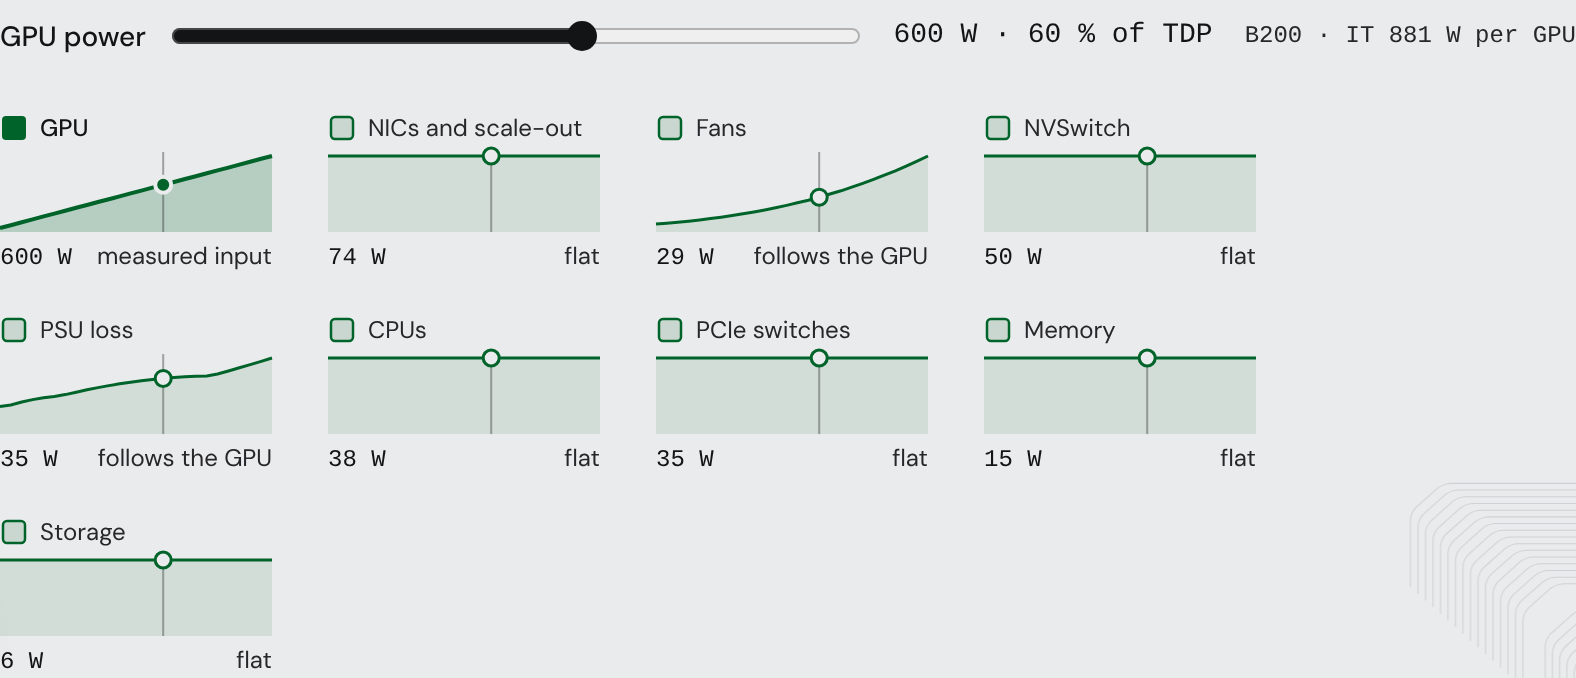
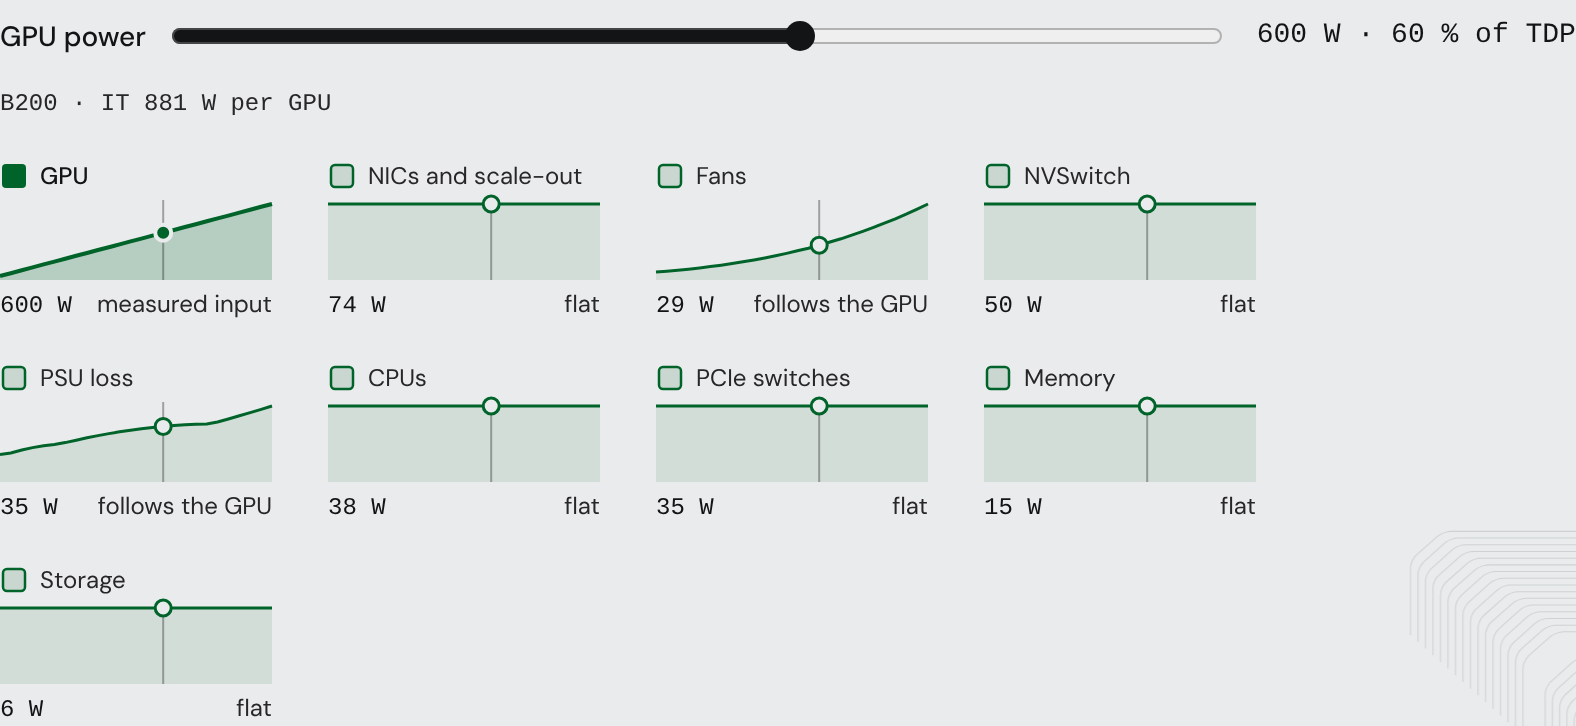
fix: correct PowerX tutorial chart rendering

diff --git a/packages/app/src/components/powerx/widgets/measured-vs-modeled-widget.tsx b/packages/app/src/components/powerx/widgets/measured-vs-modeled-widget.tsx
@@ -9,6 +9,7 @@ import { CHART_TYPE } from '@/lib/d3-chart/typography';
 import {
   decodeMmView,
   encodeMmView,
+  frontierLine,
   MM_GPUS,
   MM_VIEWS,
   mmDashboardUrl,
@@ -43,7 +44,7 @@ const STRINGS = {
       modeled:
         'The same points scaled by the power model: facility watts per GPU over measured watts',
     },
-    x: 'P90 interactivity (tok/s/user)',
+    x: 'Interactivity (tok/s/user)',
     y: 'J per output token, log',
     preset: 'DeepSeek-V4-Pro · AgentX traces · FP4',
     open: 'Open in PowerX',
@@ -71,7 +72,7 @@ const STRINGS = {
       measured: '仅由 GPU 遥测得到的每输出 token 焦耳数',
       modeled: '同一批数据点按功耗模型换算：乘以每 GPU 数据中心瓦特数 ÷ 实测瓦特数',
     },
-    x: 'P90 交互性（tok/s/user）',
+    x: '交互性（tok/s/user）',
     y: '每输出 token 焦耳数，对数坐标',
     preset: 'DeepSeek-V4-Pro · AgentX traces · FP4',
     open: '在 PowerX 中打开',
@@ -195,8 +196,7 @@ export function MeasuredVsModeledWidget({ locale, alt }: WidgetProps) {
   }
 
   const linePath = (series: PairedSeries, key: 'measured' | 'modeled') =>
-    series.points
-      .filter((point) => point[key] !== null)
+    frontierLine(series, key)
       .map(
         (point, index) =>
           `${index === 0 ? 'M' : 'L'}${plot!.xOf(point.x).toFixed(1)},${plot!.yOf(point[key]!).toFixed(1)}`,
@@ -219,7 +219,7 @@ export function MeasuredVsModeledWidget({ locale, alt }: WidgetProps) {
             title: t.viewTitles[key],
           }))}
         />
-        <div className="flex flex-wrap items-center gap-x-4 gap-y-1 text-xs text-muted-foreground">
+        <div className="flex min-w-0 flex-wrap items-center gap-x-4 gap-y-1 pr-1 text-xs text-muted-foreground">
           {paired?.map((series) => (
             <span key={series.hwKey} className="flex items-center gap-1.5">
               <GrammarSwatch kind="measured" color={resolveColor(series.gpu)} />

diff --git a/packages/app/src/components/powerx/widgets/worked-example-widget.tsx b/packages/app/src/components/powerx/widgets/worked-example-widget.tsx
@@ -19,6 +19,7 @@ import {
   formatWatts,
   GrammarSwatch,
   type Provenance,
+  useHydrated,
   useView,
   WidgetFrame,
   type WidgetProps,
@@ -82,17 +83,21 @@ export function WorkedExampleWidget({ locale, alt }: WidgetProps) {
       : null;
   const gpuWatts = point?.y ?? exampleGpuWatts(hardware);
   const ladder = useMemo(() => buildLadder(hardware, gpuWatts), [hardware, gpuWatts]);
-  const color = resolveColor(hardware);
+  const hydrated = useHydrated();
+  const color = hydrated ? resolveColor(hardware) : 'var(--foreground)';
   const label = ladderLabel(hardware);
 
-  const values: Record<RowKey, string> | null = ladder && {
-    gpu: `${formatWatts(ladder.gpuWatts)} W`,
-    it: `${formatWatts(ladder.itWatts)} W`,
-    gpusPerMw: Math.round(ladder.gpusPerMw).toLocaleString('en-US'),
-    tdp: `${ladder.percentOfTdp.toFixed(0)} %`,
-    facility: `${formatWatts(ladder.facilityWatts)} W`,
-    allIn: `${formatWatts(ladder.allInWatts)} W`,
-  };
+  const values: Record<RowKey, string> | null =
+    view.status === 'loading' || !ladder
+      ? null
+      : {
+          gpu: `${formatWatts(ladder.gpuWatts)} W`,
+          it: `${formatWatts(ladder.itWatts)} W`,
+          gpusPerMw: Math.round(ladder.gpusPerMw).toLocaleString('en-US'),
+          tdp: `${ladder.percentOfTdp.toFixed(0)} %`,
+          facility: `${formatWatts(ladder.facilityWatts)} W`,
+          allIn: `${formatWatts(ladder.allInWatts)} W`,
+        };
 
   return (
     <WidgetFrame name="worked-example" alt={alt}>

diff --git a/packages/app/src/components/powerx/widgets/load-widget.tsx b/packages/app/src/components/powerx/widgets/load-widget.tsx
@@ -19,6 +19,7 @@ import { GROUP_LABELS, GROUP_TITLES } from './strings';
 import {
   formatWatts,
   GrammarSwatch,
+  useHydrated,
   useWidgetHash,
   WidgetFrame,
   type WidgetProps,
@@ -68,7 +69,8 @@ export function LoadWidget({ locale, alt }: WidgetProps) {
     highContrast: false,
     activeKeys: [...LADDER_HARDWARE],
   });
-  const color = resolveColor(hardware);
+  const hydrated = useHydrated();
+  const color = hydrated ? resolveColor(hardware) : 'var(--foreground)';
   const groups = GROUP_LABELS[locale];
   const titles = GROUP_TITLES[locale];
   const fraction = gpuWatts / sweep.tdpWatts;
@@ -95,13 +97,14 @@ export function LoadWidget({ locale, alt }: WidgetProps) {
         <span className="font-mono text-sm tabular-nums text-foreground">
           {t.readout(formatWatts(gpuWatts), fraction * 100)}
         </span>
-        <span
-          className="font-mono text-xs text-muted-foreground"
-          title={t.chip(ladderLabel(hardware))}
-        >
-          {ladderLabel(hardware)} · {ladder ? t.it(formatWatts(ladder.itWatts)) : ''}
-        </span>
       </div>
+      <p
+        className="mt-2 font-mono text-xs text-muted-foreground"
+        title={t.chip(ladderLabel(hardware))}
+        data-testid="powerx-load-context"
+      >
+        {ladderLabel(hardware)} · {ladder ? t.it(formatWatts(ladder.itWatts)) : ''}
+      </p>
 
       <ul className="mt-5 flex flex-wrap gap-x-7 gap-y-5">
         {sweep.tracks.map((trackRow) => {

diff --git a/packages/app/src/lib/powerx/measured-vs-modeled.test.ts b/packages/app/src/lib/powerx/measured-vs-modeled.test.ts
@@ -5,6 +5,7 @@ import type { InferenceSeriesEntry } from '@/lib/views-api/series';
 import {
   decodeMmView,
   encodeMmView,
+  frontierLine,
   mmDashboardUrl,
   mmViewUrl,
   pairSeries,
@@ -81,6 +82,31 @@ describe('pairSeries', () => {
       ]),
     ]);
     expect(pairSeries(measured, response([]))[0].points.map((point) => point.id)).toEqual([3]);
+  });
+});
+
+describe('frontierLine', () => {
+  it('keeps only the lower-right frontier (higher interactivity, lower joules), per value kind', () => {
+    const measured = response([
+      series('b200_vllm', 'B200', [
+        [1, 30, 1.4],
+        [2, 50, 1.7],
+        [3, 40, 1.9], // dominated by point 2: slower and more joules
+        [4, 80, 1.6], // dominates point 2 on both axes
+      ]),
+    ]);
+    const modeled = response([
+      series('b200_vllm', 'B200', [
+        [1, 30, 2.8],
+        [2, 50, 3.2],
+        [3, 40, 3.5], // dominated by point 2 on the modeled axis too
+        [4, 80, 3.9],
+      ]),
+    ]);
+    const [paired] = pairSeries(measured, modeled);
+    expect(frontierLine(paired, 'measured').map((point) => point.id)).toEqual([1, 4]);
+    expect(frontierLine(paired, 'modeled').map((point) => point.id)).toEqual([1, 2, 4]);
+    expect(paired.points).toHaveLength(4);
   });
 });
 

diff --git a/packages/app/src/lib/powerx/measured-vs-modeled.ts b/packages/app/src/lib/powerx/measured-vs-modeled.ts
@@ -1,3 +1,5 @@
+import { globalParetoFrontier } from '@/lib/charts/pareto-frontier';
+
 import { snapTo } from './widget-hash';
 import { type TutorialViewResponse, viewsInferenceUrl } from './views-api';
 
@@ -66,6 +68,18 @@ export function pairSeries(
         .toSorted((a, b) => a.x - b.x),
     }))
     .filter((series) => series.points.length > 0);
+}
+
+/**
+ * The frontier the dashboard draws for energy per token (direction `lower_right`: higher
+ * interactivity and lower joules are both better), on one series' measured or modeled values.
+ * Dominated points stay as dots; only the line follows the frontier.
+ */
+export function frontierLine(series: PairedSeries, key: 'measured' | 'modeled'): PairedPoint[] {
+  const candidates = series.points
+    .filter((point) => point[key] !== null)
+    .map((point) => ({ point, x: point.x, y: point[key]! }));
+  return globalParetoFrontier(candidates, true, false).map((entry) => entry.point);
 }
 
 export const encodeMmView = (view: MmView): string => view;

diff --git a/packages/app/src/components/powerx/widgets/ladder-widget.tsx b/packages/app/src/components/powerx/widgets/ladder-widget.tsx
@@ -17,7 +17,14 @@ import { pickPoint, viewsInferenceUrl } from '@/lib/powerx/views-api';
 
 import { hardwareStore } from './hardware-store';
 import { PowerLadder } from './power-ladder';
-import { Chips, GrammarLegend, useView, WidgetFrame, type WidgetProps } from './widget-chrome';
+import {
+  Chips,
+  GrammarLegend,
+  useHydrated,
+  useView,
+  WidgetFrame,
+  type WidgetProps,
+} from './widget-chrome';
 
 const STRINGS = {
   en: {
@@ -80,7 +87,8 @@ export function LadderWidget({ locale, alt }: WidgetProps) {
       : null;
   const gpuWatts = point?.y ?? exampleGpuWatts(hardware);
   const ladder = useMemo(() => buildLadder(hardware, gpuWatts), [hardware, gpuWatts]);
-  const color = resolveColor(hardware);
+  const hydrated = useHydrated();
+  const color = hydrated ? resolveColor(hardware) : 'var(--foreground)';
 
   return (
     <WidgetFrame name="ladder" alt={alt}>

diff --git a/packages/app/src/components/powerx/widgets/widget-chrome.tsx b/packages/app/src/components/powerx/widgets/widget-chrome.tsx
@@ -363,5 +363,20 @@ export function useView(url: string | null): Fetched {
   return state;
 }
 
+const subscribeNoop = () => () => {};
+
+/**
+ * False during server render and hydration, true after. Chip colours depend on the resolved
+ * theme, which the server cannot know, so colour-bearing SSR markup waits for this to avoid a
+ * hydration mismatch in dark mode.
+ */
+export function useHydrated(): boolean {
+  return useSyncExternalStore(
+    subscribeNoop,
+    () => true,
+    () => false,
+  );
+}
+
 /** 1 234 → "1,234"; keeps watts readable in both locales. */
 export const formatWatts = (watts: number): string => Math.round(watts).toLocaleString('en-US');
